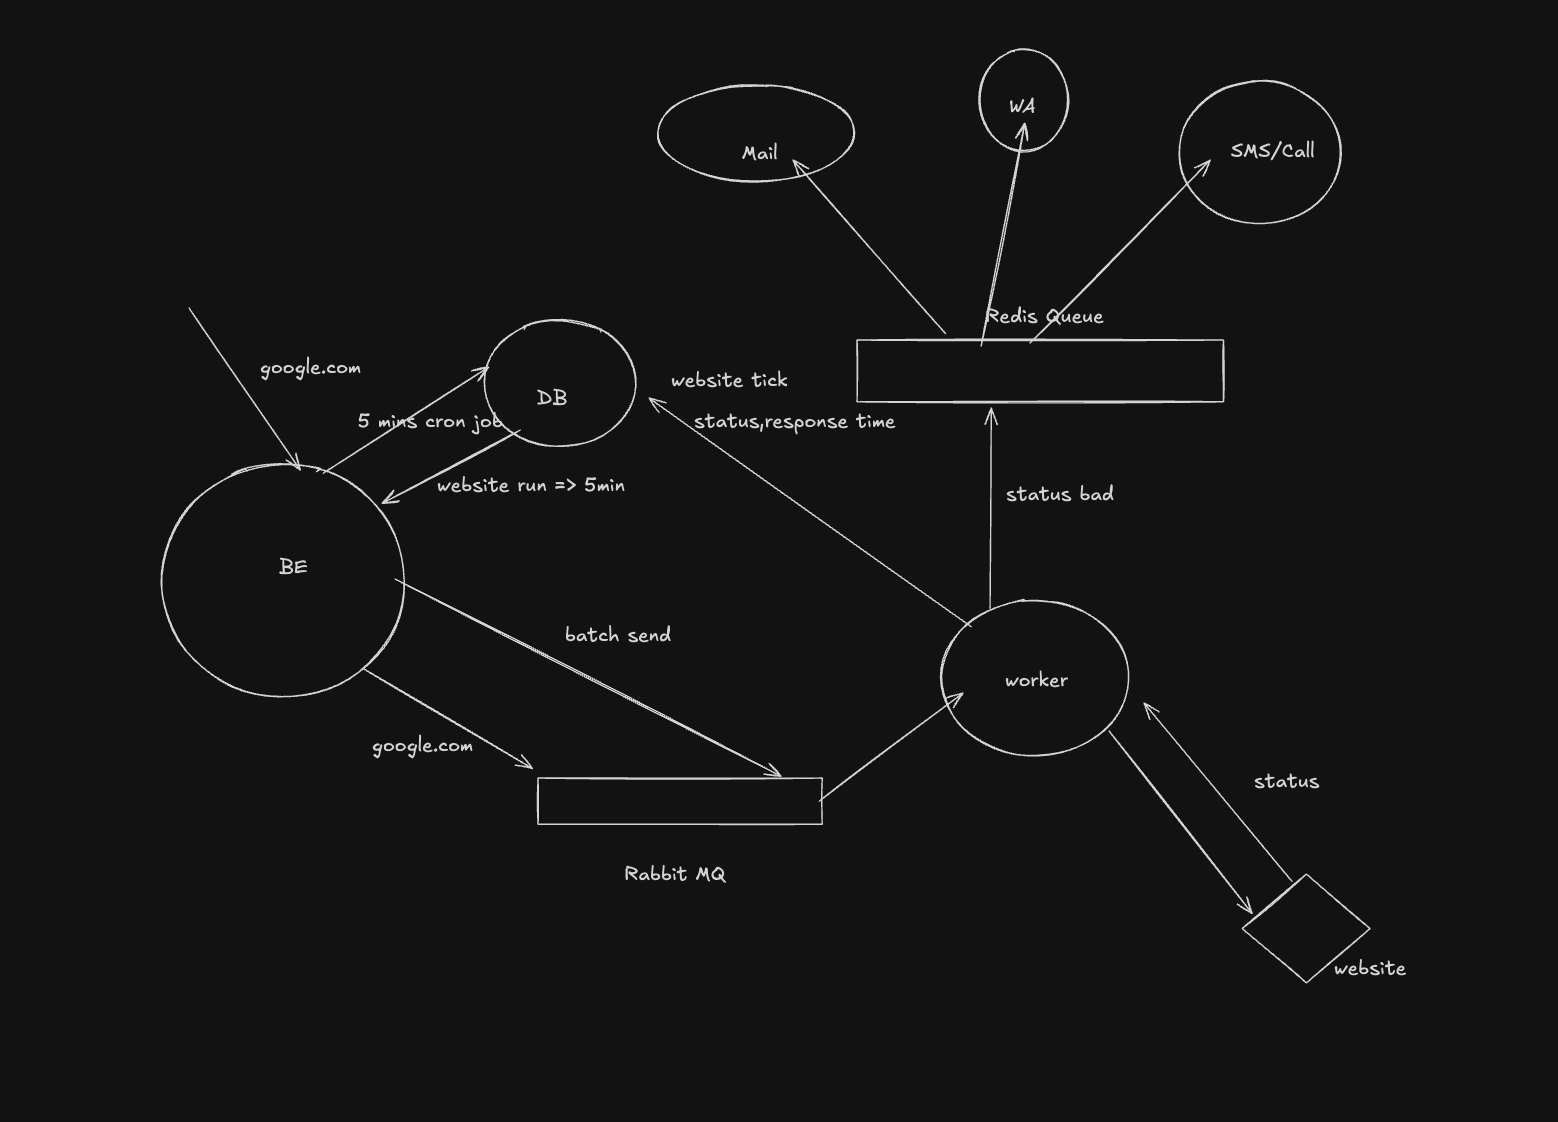
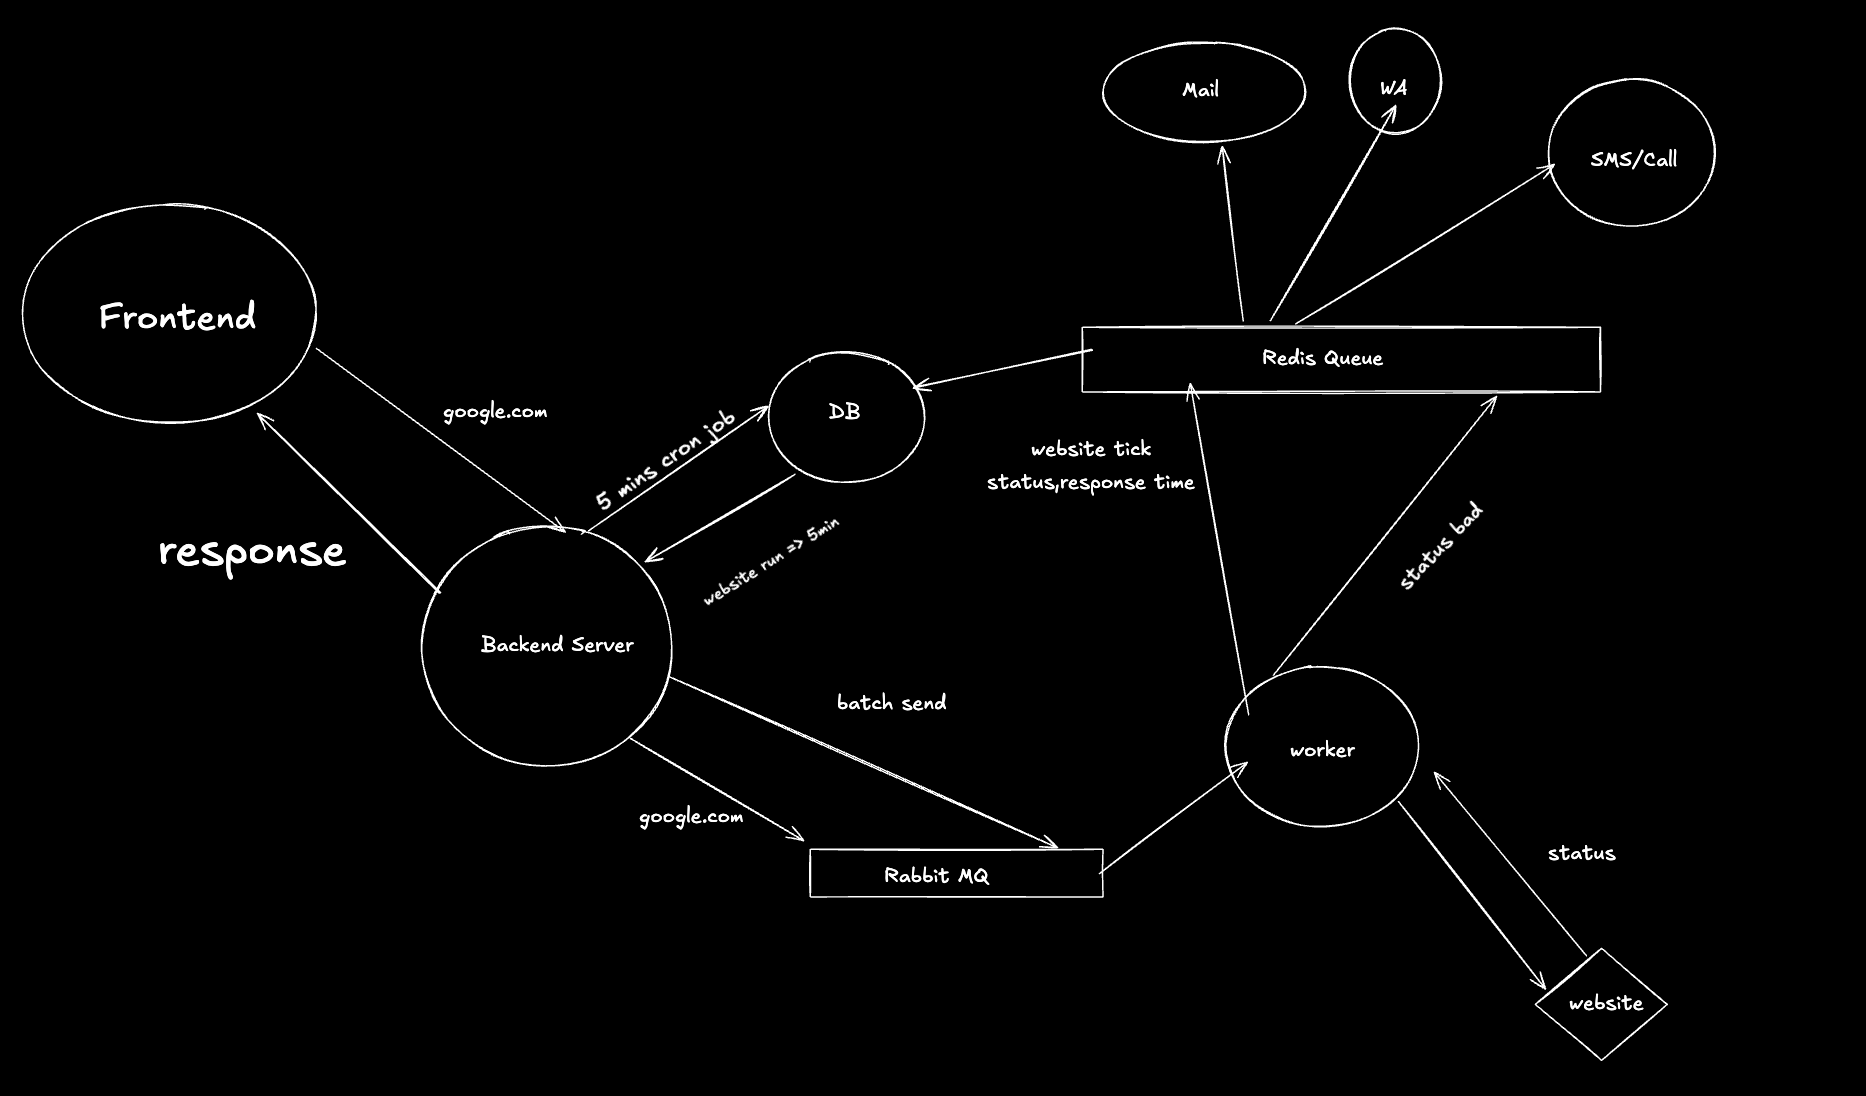
updating readme

diff --git a/README.md b/README.md
@@ -27,6 +27,7 @@ https://github.com/user-attachments/assets/b115c62a-99b5-4f0a-b3d3-3059a30492d8
 - **Worker**: TypeScript (with planned Go migration)
 - **Message Queues**: 
   - RabbitMQ for monitoring tasks
+  - Bull Queue (Redis) for database operations and scalability
   - Redis for email notifications
 - **Email Service**: Nodemailer with Gmail SMTP
 - **Database**: PostgreSQL with Prisma
@@ -108,7 +109,9 @@ The architecture consists of several key components working together:
 3. **Worker**:
    - Consumes monitoring tasks from RabbitMQ
    - Performs actual website status checks
-   - Reports status and response times back to DB
+   - Queues database operations via Bull Queue to prevent DB overload:
+     - Website tick creation with response times and status
+     - Handles 1000+ concurrent monitoring without database connection exhaustion
    - Manages email notifications through Redis queue:
      - Queues downtime notifications
      - Queues recovery notifications
@@ -117,6 +120,10 @@ The architecture consists of several key components working together:
 
 4. **Message Queues**:
    - RabbitMQ for monitoring tasks
+   - Bull Queue (Redis) for database operations:
+     - Prevents database overload during high-volume monitoring
+     - Ensures reliable database writes with retry logic
+     - Scales to handle 1000+ concurrent website checks
    - Redis for reliable email notification delivery:
      - Priority-based email queuing
      - Automatic retries with exponential backoff
@@ -135,10 +142,11 @@ Key components:
 1. **Web Interface**: React-based dashboard for managing monitored websites and viewing their status
 2. **API Server**: Handles website management and publishes monitoring tasks with user email info
 3. **RabbitMQ**: Message queue for distributing monitoring tasks
-4. **Redis**: Handles reliable email notification delivery with retries
-5. **Worker Service**: Consumes monitoring tasks, performs website checks, and manages notifications
-6. **PostgreSQL**: Stores website data, monitoring history, and user information
-7. **Email Service**: Processes queued notifications via Gmail SMTP
+4. **Bull Queue**: Handles database operations to prevent overload during high-volume monitoring
+5. **Redis**: Handles reliable email notification delivery with retries
+6. **Worker Service**: Consumes monitoring tasks, performs website checks, queues DB operations, and manages notifications
+7. **PostgreSQL**: Stores website data, monitoring history, and user information
+8. **Email Service**: Processes queued notifications via Gmail SMTP
 
 ## Development
 
